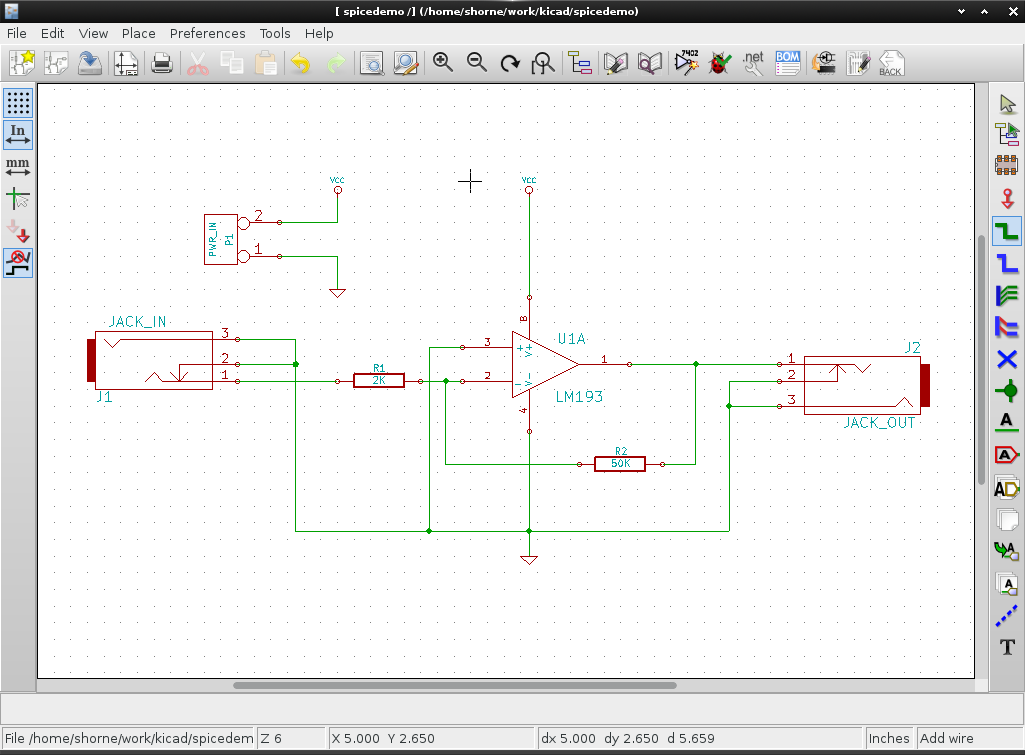
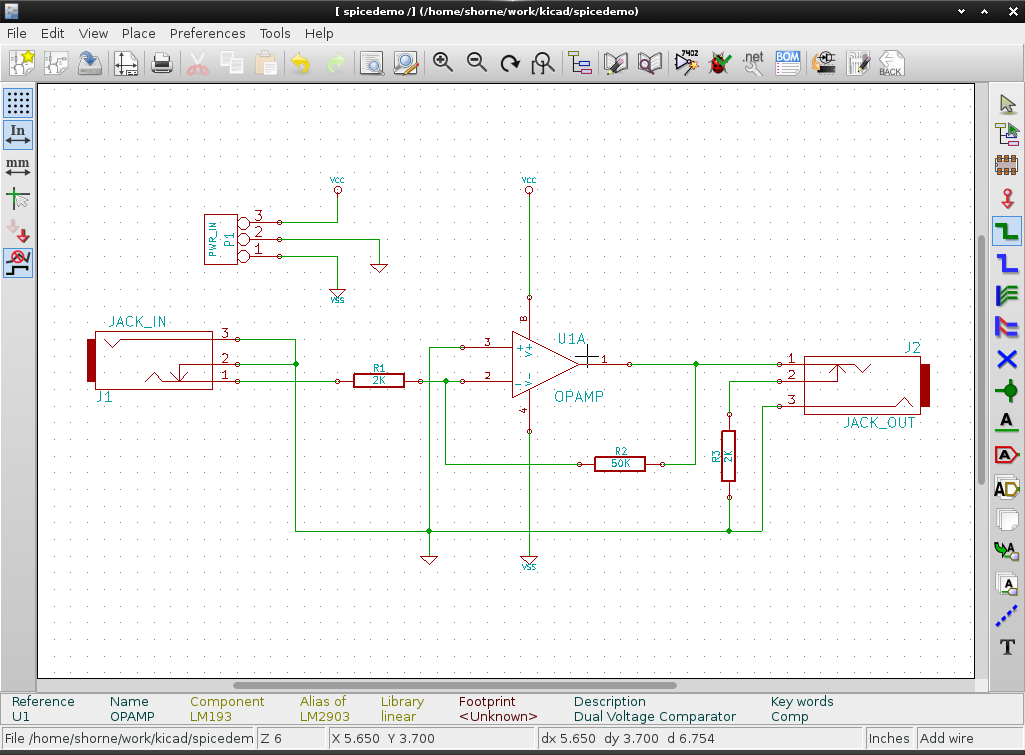
add more details and screenshots on kicad spice demo

diff --git a/_drafts/simulating_kicad_schematics_in_spice.md b/_drafts/simulating_kicad_schematics_in_spice.md
@@ -16,4 +16,60 @@ First we will need to start off with a schematic. I will choose a circuit which 
 
 Lets pick a simple inverting op amp circuit.  We can use the spice models from vendors like ti to plug into our schematics. 
 
-![kicad amp for demo]({{site.url}}/content/kikcad-spidedemo-2015-04-23_07-56-40.png)
+![kicad amp for demo]({{site.url}}/content/kikcad-spicedemo-2015-04-23_07-56-40.png)
+
+Create a `components.cir`
+
+```
+* Components and subcircuits for use in spicedemo.cir
+
+.INCLUDE LMV981.MOD
+
+* 4 0 1 PWR_IN
+*              + g -     
+.subckt PWR_IN 1 2 3
+  Vneg 1 2  3.3V
+  Vpos 2 3 3.3V
+.ends PWR_IN
+
+* 7 6 0 4 1 OPAMP
+*             o - + p n
+.subckt OPAMP 1 2 3 4 5
+  * PINOUT ORDER  1   3   6  2  4   5
+  * PINOUT ORDER +IN -IN +V -V OUT NSD
+  Xopamp 3 2 4 5 1 NSD LMV981
+.ends OPAMP
+
+*               s x g
+.subckt JACK_IN 1 2 3
+  *** Simulate mic input A-note
+  Vmic  3 1 ac SIN(0 0.02 440)
+.ends JACK_IN
+
+*                s x g
+.subckt JACK_OUT 1 2 3
+  Rwire  1 2   10ohm
+.ends JACK_OUT
+
+```
+
+Download your components spice model
+
+http://www.ti.com/product/lmv981-n
+
+Run the `OP` analsysis, to make sure nothing is shorted
+
+Run the `TRAN` analsysis, to make sure it works
+
+```
+> tran 0.3m 1m
+> plot V(2) V(7)
+```
+
+Run the `AC` analysis, to analysis the performance
+
+```
+> ac dec 10 1 100K
+No. of Data Rows : 51
+> plot V(2) V(7)
+```
